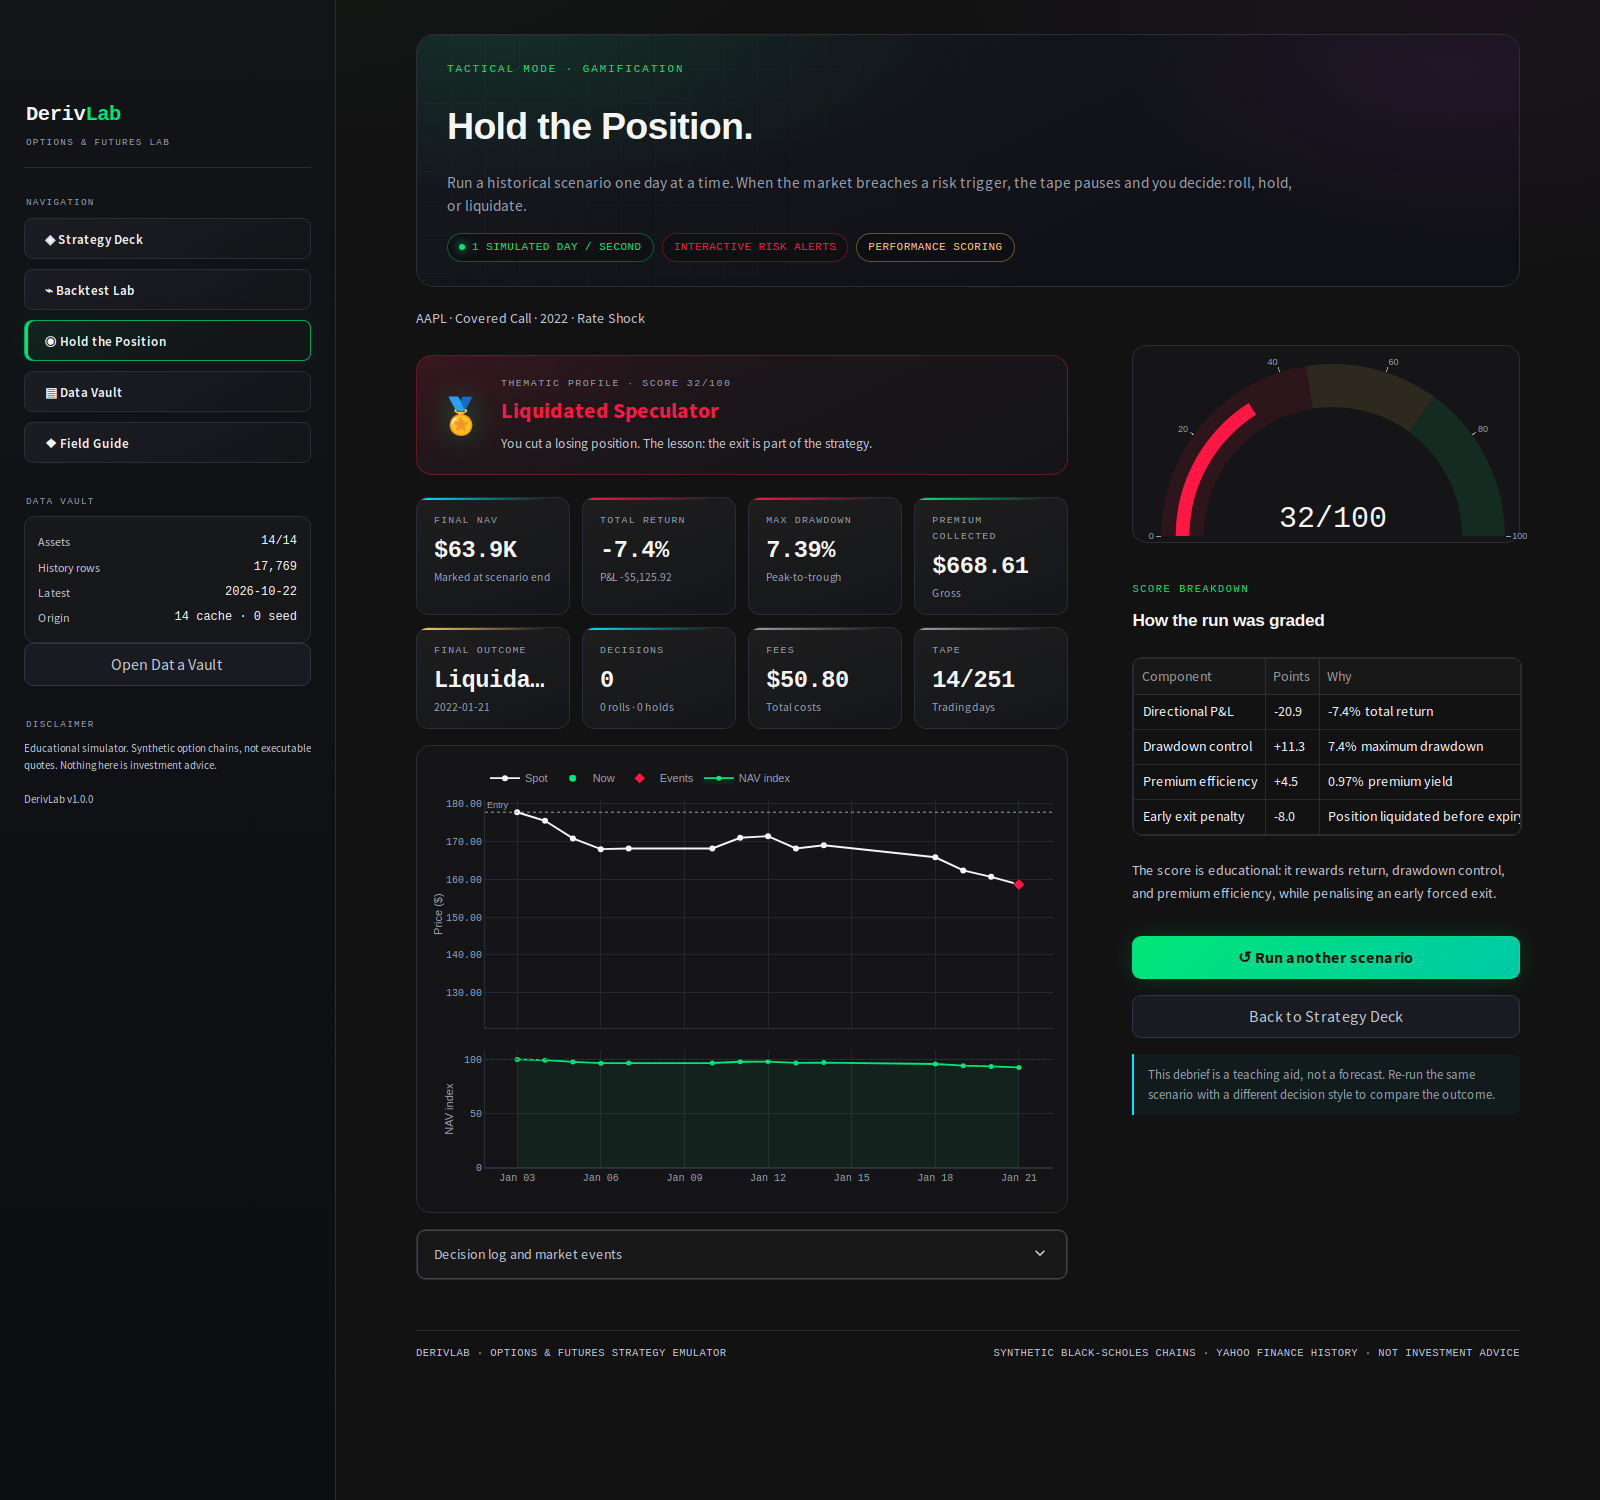
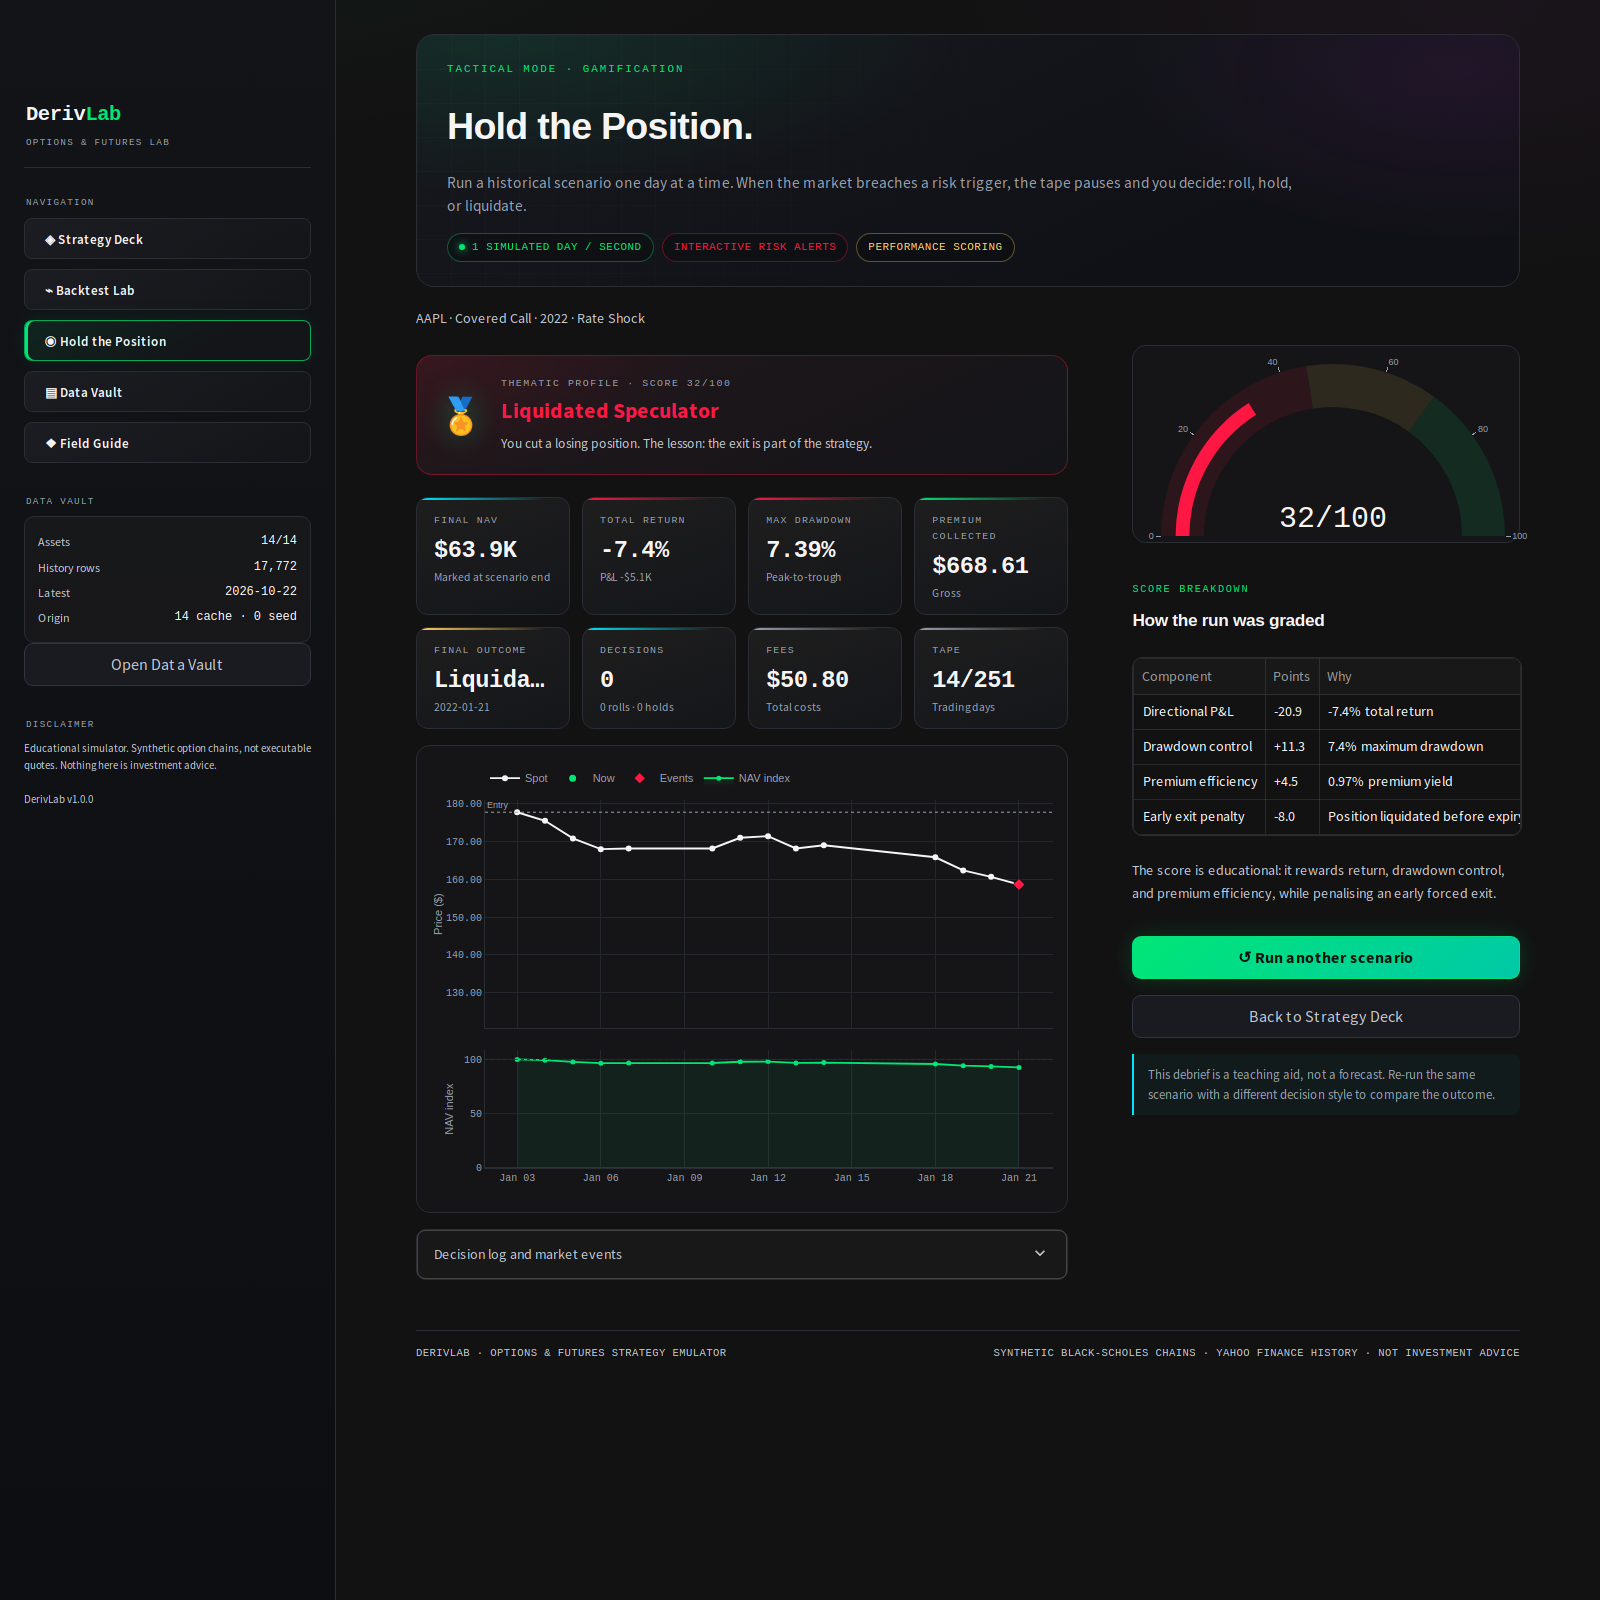
polish: refine KPI layout, payoff labels, and final screenshots

diff --git a/derivlab/ui.py b/derivlab/ui.py
@@ -211,7 +211,7 @@ def _metric_cards_result(result: BacktestResult) -> list[str]:
         theme.kpi_card(
             "Buy & hold",
             format_pct(bench),
-            f"{result.start.date()} → {result.end.date()}",
+            f"{result.config.lookback_years}-year window",
             "green" if bench >= 0 else "pink",
         ),
         theme.kpi_card(
@@ -233,12 +233,6 @@ def _metric_cards_result(result: BacktestResult) -> list[str]:
             _money(result.premium_collected, asset),
             "Gross short-option premium",
             "green" if result.premium_collected > 0 else "muted",
-        ),
-        theme.kpi_card(
-            "Costs paid",
-            _money(result.fees_paid, asset),
-            f"{result.assignments} assignment(s)",
-            "muted",
         ),
     ]
     return cards
@@ -988,7 +982,6 @@ def _game_kpis(game: ScenarioGame) -> list[str]:
         theme.kpi_card("Premium collected", _money(game.premium_collected, asset), "Gross", "green"),
         theme.kpi_card("Rolls", f"{game.rolls}", "Tactical adjustments", "amber"),
         theme.kpi_card("Holds", f"{game.holds}", "Let it ride", "muted"),
-        theme.kpi_card("Fees", _money(game.fees_paid, asset), "Paid to the market", "muted"),
         theme.kpi_card("Tape", f"{game.days_elapsed}/{game.days_total}", f"{game.progress * 100:.0f}% complete", "cyan"),
     ]
 
@@ -1049,7 +1042,7 @@ def _render_game_live(game: ScenarioGame) -> None:
             else:
                 st.error(game.last_action_message or "The roll could not be executed.")
         if decision[1].button(
-            "⏸ Hold / Do Nothing",
+            "Hold / Do Nothing",
             key="decision_hold",
             use_container_width=True,
             help="Let the contract ride toward expiration. Holding suppresses this alert until the condition clears.",
@@ -1058,7 +1051,7 @@ def _render_game_live(game: ScenarioGame) -> None:
             st.session_state.game_playing = True
             st.rerun()
         if decision[2].button(
-            "⏹ Liquidate / Close",
+            "Liquidate / Close",
             key="decision_liquidate",
             use_container_width=True,
             help="Close the underlying and every derivative leg immediately.",
@@ -1080,7 +1073,7 @@ def _render_game_live(game: ScenarioGame) -> None:
     if controls[0].button("▶ Play", key="game_play", type="primary", disabled=(not running or playing), use_container_width=True):
         st.session_state.game_playing = True
         st.rerun()
-    if controls[1].button("⏸ Pause", key="game_pause", disabled=(not playing), use_container_width=True):
+    if controls[1].button("Pause", key="game_pause", disabled=(not playing), use_container_width=True):
         st.session_state.game_playing = False
         st.rerun()
     if controls[2].button("Step +1 day", key="game_step", disabled=not running, use_container_width=True):

diff --git a/derivlab/theme.py b/derivlab/theme.py
@@ -324,7 +324,7 @@ div[data-testid="stRadio"] label[data-baseweb="radio"] div[data-testid="stMarkdo
 
 .dl-kpi-grid {{
     display: grid;
-    grid-template-columns: repeat(auto-fit, minmax(120px, 1fr));
+    grid-template-columns: repeat(auto-fit, minmax(142px, 1fr));
     gap: 12px;
     margin: 6px 0 16px 0;
 }}
